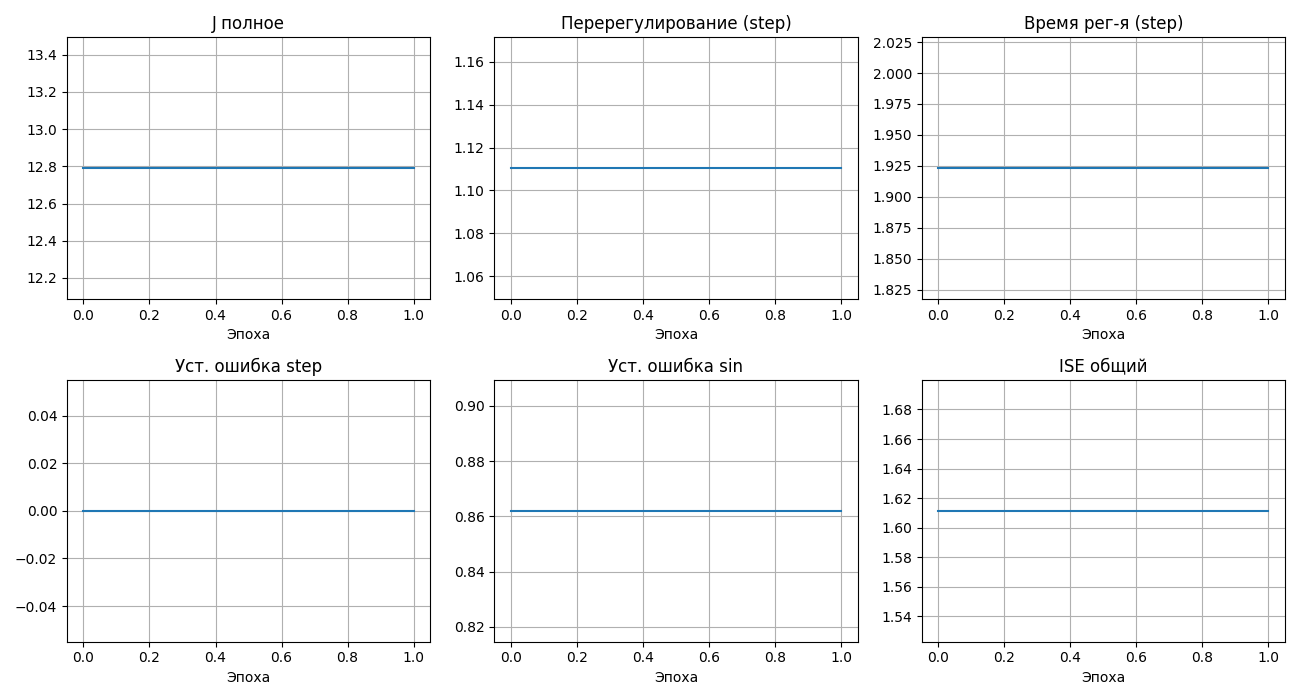
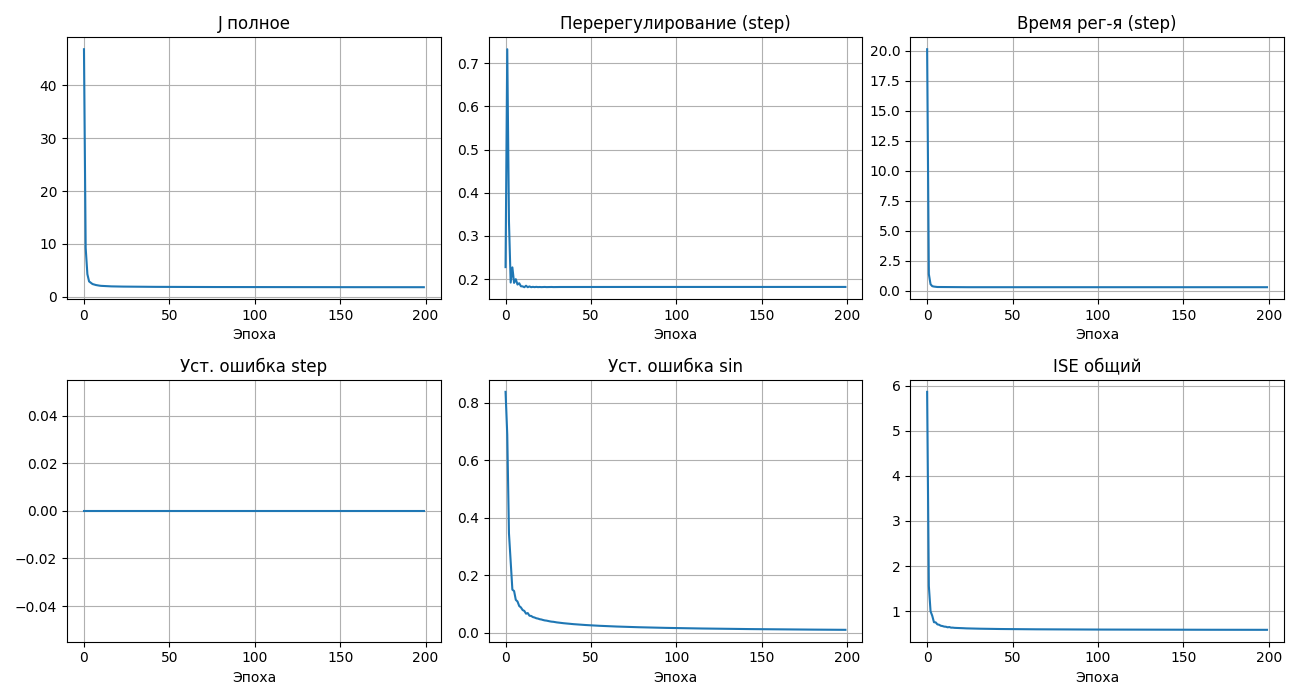
L M Add

diff --git a/src/bosh_dz2/training.py b/src/bosh_dz2/training.py
@@ -15,8 +15,11 @@ from bosh_dz2.loss import (
     compute_loss_sin,
     compute_loss_step,
 )
+from bosh_dz2.lm_optimizer import levenberg_marquardt_step
+from bosh_dz2.params import unpack_params
 from bosh_dz2.plant import build_plant
 from bosh_dz2.references import ReferenceData, build_references
+from bosh_dz2.residuals import residuals_sin, residuals_step
 
 TeacherSample = tuple[Literal["step", "sin"], int]
 
@@ -151,7 +154,7 @@ def train_online(cfg: TrainingConfig | None = None) -> None:
 
         dt = time.time() - t_ep
         if ep <= 5 or ep % 10 == 0:
-            eta = dt * (cfg.n_epoch - ep)
+            eta: float = dt * (cfg.n_epoch - ep)
             print(
                 f"  Эпоха {ep:3d}/{cfg.n_epoch}  J={epoch_loss.total.item():.4f}  "
                 f"[os={epoch_loss.os.item():.4f} set={epoch_loss.set.item():.4f} "
@@ -165,7 +168,73 @@ def train_online(cfg: TrainingConfig | None = None) -> None:
     save_for_simulink(net, cfg.U_LIM, cfg.Ts, cfg.online_weights_file)
     plot_training(J_hist, components_hist, cfg.online_curves_file)
 
+
+def _make_residual_fn(
+    net: torch.nn.Module,
+    plant: tuple[torch.Tensor, torch.Tensor, torch.Tensor],
+    refs: ReferenceData,
+    cfg: TrainingConfig,
+    kind: Literal["step", "sin"],
+    idx: int,
+):
+    if kind == "step":
+        def residual_fn(w):
+            unpack_params(net, w)
+            return residuals_step(net, plant, refs, cfg, idx)
+    else:
+        def residual_fn(w):
+            unpack_params(net, w)
+            return residuals_sin(net, plant, refs, cfg, idx)
+    return residual_fn
+
+
+def train_online_lm(cfg: TrainingConfig | None = None) -> None:
+    """OSL + Levenberg–Marquardt (scipy.optimize.least_squares, method='lm').
+
+    После каждого эталона от учителя LM минимизирует ||r(w)||² по невязкам
+    текущего примера (до сходимости или lm_max_nfev).
+    """
+    cfg = cfg or TrainingConfig()
+    refs = build_references(cfg)
+    plant = build_plant()
+    net = Controller().to(DEVICE).to(DTYPE)
+
+    _print_header(cfg, refs, "online supervised + Levenberg-Marquardt")
+    print(
+        f"  Примеров за эпоху: {refs.n_step_exp + refs.n_sin_exp} "
+        f"(LM после каждого, max_nfev={cfg.lm_max_nfev})"
+    )
+    print()
+
+    J_hist: list[float] = []
+    components_hist: dict[str, list[float]] = {
+        "os": [], "set": [], "steady": [], "track": [], "ise": [],
+    }
+
+    t_start = time.time()
+    for ep in range(1, cfg.n_epoch + 1):
+        t_ep = time.time()
+
+        for kind, idx in _teacher_samples(refs, shuffle=True):
+            residual_fn = _make_residual_fn(net, plant, refs, cfg, kind, idx)
+            levenberg_marquardt_step(net, residual_fn, cfg)
+
+        with torch.no_grad():
+            epoch_loss = compute_loss(net, plant, refs, cfg)
+        _record_epoch(epoch_loss, J_hist, components_hist)
+
+        dt = time.time() - t_ep
+        if ep <= 5 or ep % 10 == 0:
+            eta = dt * (cfg.n_epoch - ep)
+            print(
+                f"  Эпоха {ep:3d}/{cfg.n_epoch}  J={epoch_loss.total.item():.4f}  "
+                f"[os={epoch_loss.os.item():.4f} set={epoch_loss.set.item():.4f} "
+                f"steady={epoch_loss.steady.item():.5f} "
+                f"track={epoch_loss.track.item():.4f} ise={epoch_loss.ise.item():.4f}]  "
+                f"({dt:.2f}с, ETA {eta:.0f}с)"
+            )
+
     print(f"\nВремя обучения: {time.time() - t_start:.1f} с")
 
-    save_for_simulink(net, cfg.U_LIM, cfg.Ts, cfg.online_weights_file)
-    plot_training(J_hist, components_hist, cfg.online_curves_file)
+    save_for_simulink(net, cfg.U_LIM, cfg.Ts, cfg.online_lm_weights_file)
+    plot_training(J_hist, components_hist, cfg.online_lm_curves_file)

diff --git a/src/bosh_dz2/residuals.py b/src/bosh_dz2/residuals.py
@@ -1,0 +1,69 @@
+"""Векторы невязок для Levenberg–Marquardt: J = ||r||²."""
+
+import numpy as np
+import torch
+import torch.nn as nn
+
+from bosh_dz2.config import DTYPE, TrainingConfig
+from bosh_dz2.references import ReferenceData
+from bosh_dz2.simulation import simulate
+
+
+def residuals_step(
+    net: nn.Module,
+    plant: tuple[torch.Tensor, torch.Tensor, torch.Tensor],
+    refs: ReferenceData,
+    cfg: TrainingConfig,
+    idx: int,
+) -> np.ndarray:
+    """Невязки одной ступеньки; sum(r²) = compute_loss_step(...).total."""
+    A, B, C = plant
+    ref = refs.step_refs[:, idx:idx + 1]
+
+    with torch.no_grad():
+        Y = simulate(net, ref, A, B, C, cfg.Ts, cfg.U_LIM)
+        e = ref - Y
+
+        sgn = torch.sign(refs.step_ref_consts[idx])
+        z = torch.clamp(sgn * (Y[:, 0] - refs.step_ref_consts[idx]), min=0.0)
+        M_os = torch.logsumexp(20.0 * z, dim=0) / 20.0
+        r_os = torch.sqrt(torch.tensor(cfg.w_os, dtype=DTYPE)) * M_os
+
+        viol = torch.clamp(torch.abs(e) - refs.deltas[idx], min=0.0)
+        scale_set = torch.sqrt(cfg.w_set * refs.t_step * cfg.Ts)
+        r_set = (scale_set * viol.squeeze(1)).reshape(-1)
+
+        rel_err = e / refs.step_ref_consts[idx]
+        scale_steady = torch.sqrt(cfg.w_steady * refs.mask_step_steady * cfg.Ts)
+        r_steady = (scale_steady * rel_err).reshape(-1)
+
+        scale_ise = torch.sqrt(torch.tensor(cfg.w_ise * cfg.Ts, dtype=DTYPE))
+        r_ise = (scale_ise * e.squeeze(1)).reshape(-1)
+
+        parts = [r_os.reshape(1), r_set, r_steady, r_ise]
+
+    return torch.cat(parts).cpu().numpy().astype(np.float64)
+
+
+def residuals_sin(
+    net: nn.Module,
+    plant: tuple[torch.Tensor, torch.Tensor, torch.Tensor],
+    refs: ReferenceData,
+    cfg: TrainingConfig,
+    idx: int,
+) -> np.ndarray:
+    """Невязки одного синуса; sum(r²) = compute_loss_sin(...).total."""
+    A, B, C = plant
+    ref = refs.sin_refs[:, idx:idx + 1]
+
+    with torch.no_grad():
+        Y = simulate(net, ref, A, B, C, cfg.Ts, cfg.U_LIM)
+        e = ref - Y
+
+        scale_track = torch.sqrt(cfg.w_track * refs.mask_sin_steady * cfg.Ts)
+        r_track = (scale_track * e).reshape(-1)
+
+        scale_ise = torch.sqrt(torch.tensor(cfg.w_ise * cfg.Ts, dtype=DTYPE))
+        r_ise = (scale_ise * e.squeeze(1)).reshape(-1)
+
+    return torch.cat([r_track, r_ise]).cpu().numpy().astype(np.float64)

diff --git a/src/bosh_dz2/lm_optimizer.py b/src/bosh_dz2/lm_optimizer.py
@@ -1,0 +1,30 @@
+"""Levenberg–Marquardt через scipy.optimize.least_squares."""
+
+from collections.abc import Callable
+
+import numpy as np
+import torch.nn as nn
+from scipy.optimize import OptimizeResult, least_squares
+
+from bosh_dz2.config import TrainingConfig
+from bosh_dz2.params import pack_params, unpack_params
+
+
+def levenberg_marquardt_step(
+    net: nn.Module,
+    residual_fn: Callable[[np.ndarray], np.ndarray],
+    cfg: TrainingConfig,
+) -> OptimizeResult:
+    """Минимизация ||r(w)||² методом LM (MINPACK)."""
+    w0 = pack_params(net)
+    result = least_squares(
+        residual_fn,
+        w0,
+        method='lm',
+        ftol=cfg.lm_ftol,
+        xtol=cfg.lm_xtol,
+        gtol=cfg.lm_gtol,
+        max_nfev=cfg.lm_max_nfev,
+    )
+    unpack_params(net, result.x)
+    return result

diff --git a/src/bosh_dz2/params.py b/src/bosh_dz2/params.py
@@ -1,0 +1,24 @@
+"""Упаковка и распаковка весов нейросети для SciPy."""
+
+import numpy as np
+import torch
+import torch.nn as nn
+
+from bosh_dz2.config import DEVICE, DTYPE
+
+
+def pack_params(net: nn.Module) -> np.ndarray:
+    return np.concatenate([
+        p.detach().cpu().numpy().astype(np.float64).ravel()
+        for p in net.parameters()
+    ])
+
+
+def unpack_params(net: nn.Module, w: np.ndarray) -> None:
+    w = np.asarray(w, dtype=np.float64)
+    offset = 0
+    for p in net.parameters():
+        n = p.numel()
+        chunk = torch.tensor(w[offset:offset + n], dtype=DTYPE, device=DEVICE)
+        p.data.copy_(chunk.view_as(p))
+        offset += n

diff --git a/src/bosh_dz2/__main__.py b/src/bosh_dz2/__main__.py
@@ -1,5 +1,7 @@
 from bosh_dz2.config import TrainingConfig
-from bosh_dz2.training import train_online
+
+# from bosh_dz2.training import train_online
+from bosh_dz2.training import train_online_lm
 
 """Точка входа: python -m bosh_dz2"""
 
@@ -21,7 +23,8 @@ from bosh_dz2.training import train_online
 
 
 def main() -> None:
-    train_online(cfg=TrainingConfig(n_epoch=2))
+    # train_online(cfg=TrainingConfig(n_epoch=2))
+    train_online_lm(TrainingConfig(n_epoch=50, lm_max_nfev=50))
 
 
 if __name__ == "__main__":

diff --git a/src/bosh_dz2/config.py b/src/bosh_dz2/config.py
@@ -29,3 +29,9 @@ class TrainingConfig:
     curves_file: str = "training_curves.png"
     online_weights_file: str = "nn_weights_online.mat"
     online_curves_file: str = "training_curves_online.png"
+    online_lm_weights_file: str = "nn_weights_online_lm.mat"
+    online_lm_curves_file: str = "training_curves_online_lm.png"
+    lm_max_nfev: int | None = 50
+    lm_ftol: float = 1e-8
+    lm_xtol: float = 1e-8
+    lm_gtol: float = 1e-8

diff --git a/src/bosh_dz2/__init__.py b/src/bosh_dz2/__init__.py
@@ -6,7 +6,7 @@ from bosh_dz2.loss import LossComponents, compute_loss, compute_loss_sin, comput
 from bosh_dz2.plant import build_plant
 from bosh_dz2.references import ReferenceData, build_references
 from bosh_dz2.simulation import simulate
-from bosh_dz2.training import train, train_online
+from bosh_dz2.training import train, train_online, train_online_lm
 
 __all__ = [
     'DEVICE',
@@ -23,4 +23,5 @@ __all__ = [
     'simulate',
     'train',
     'train_online',
+    'train_online_lm',
 ]